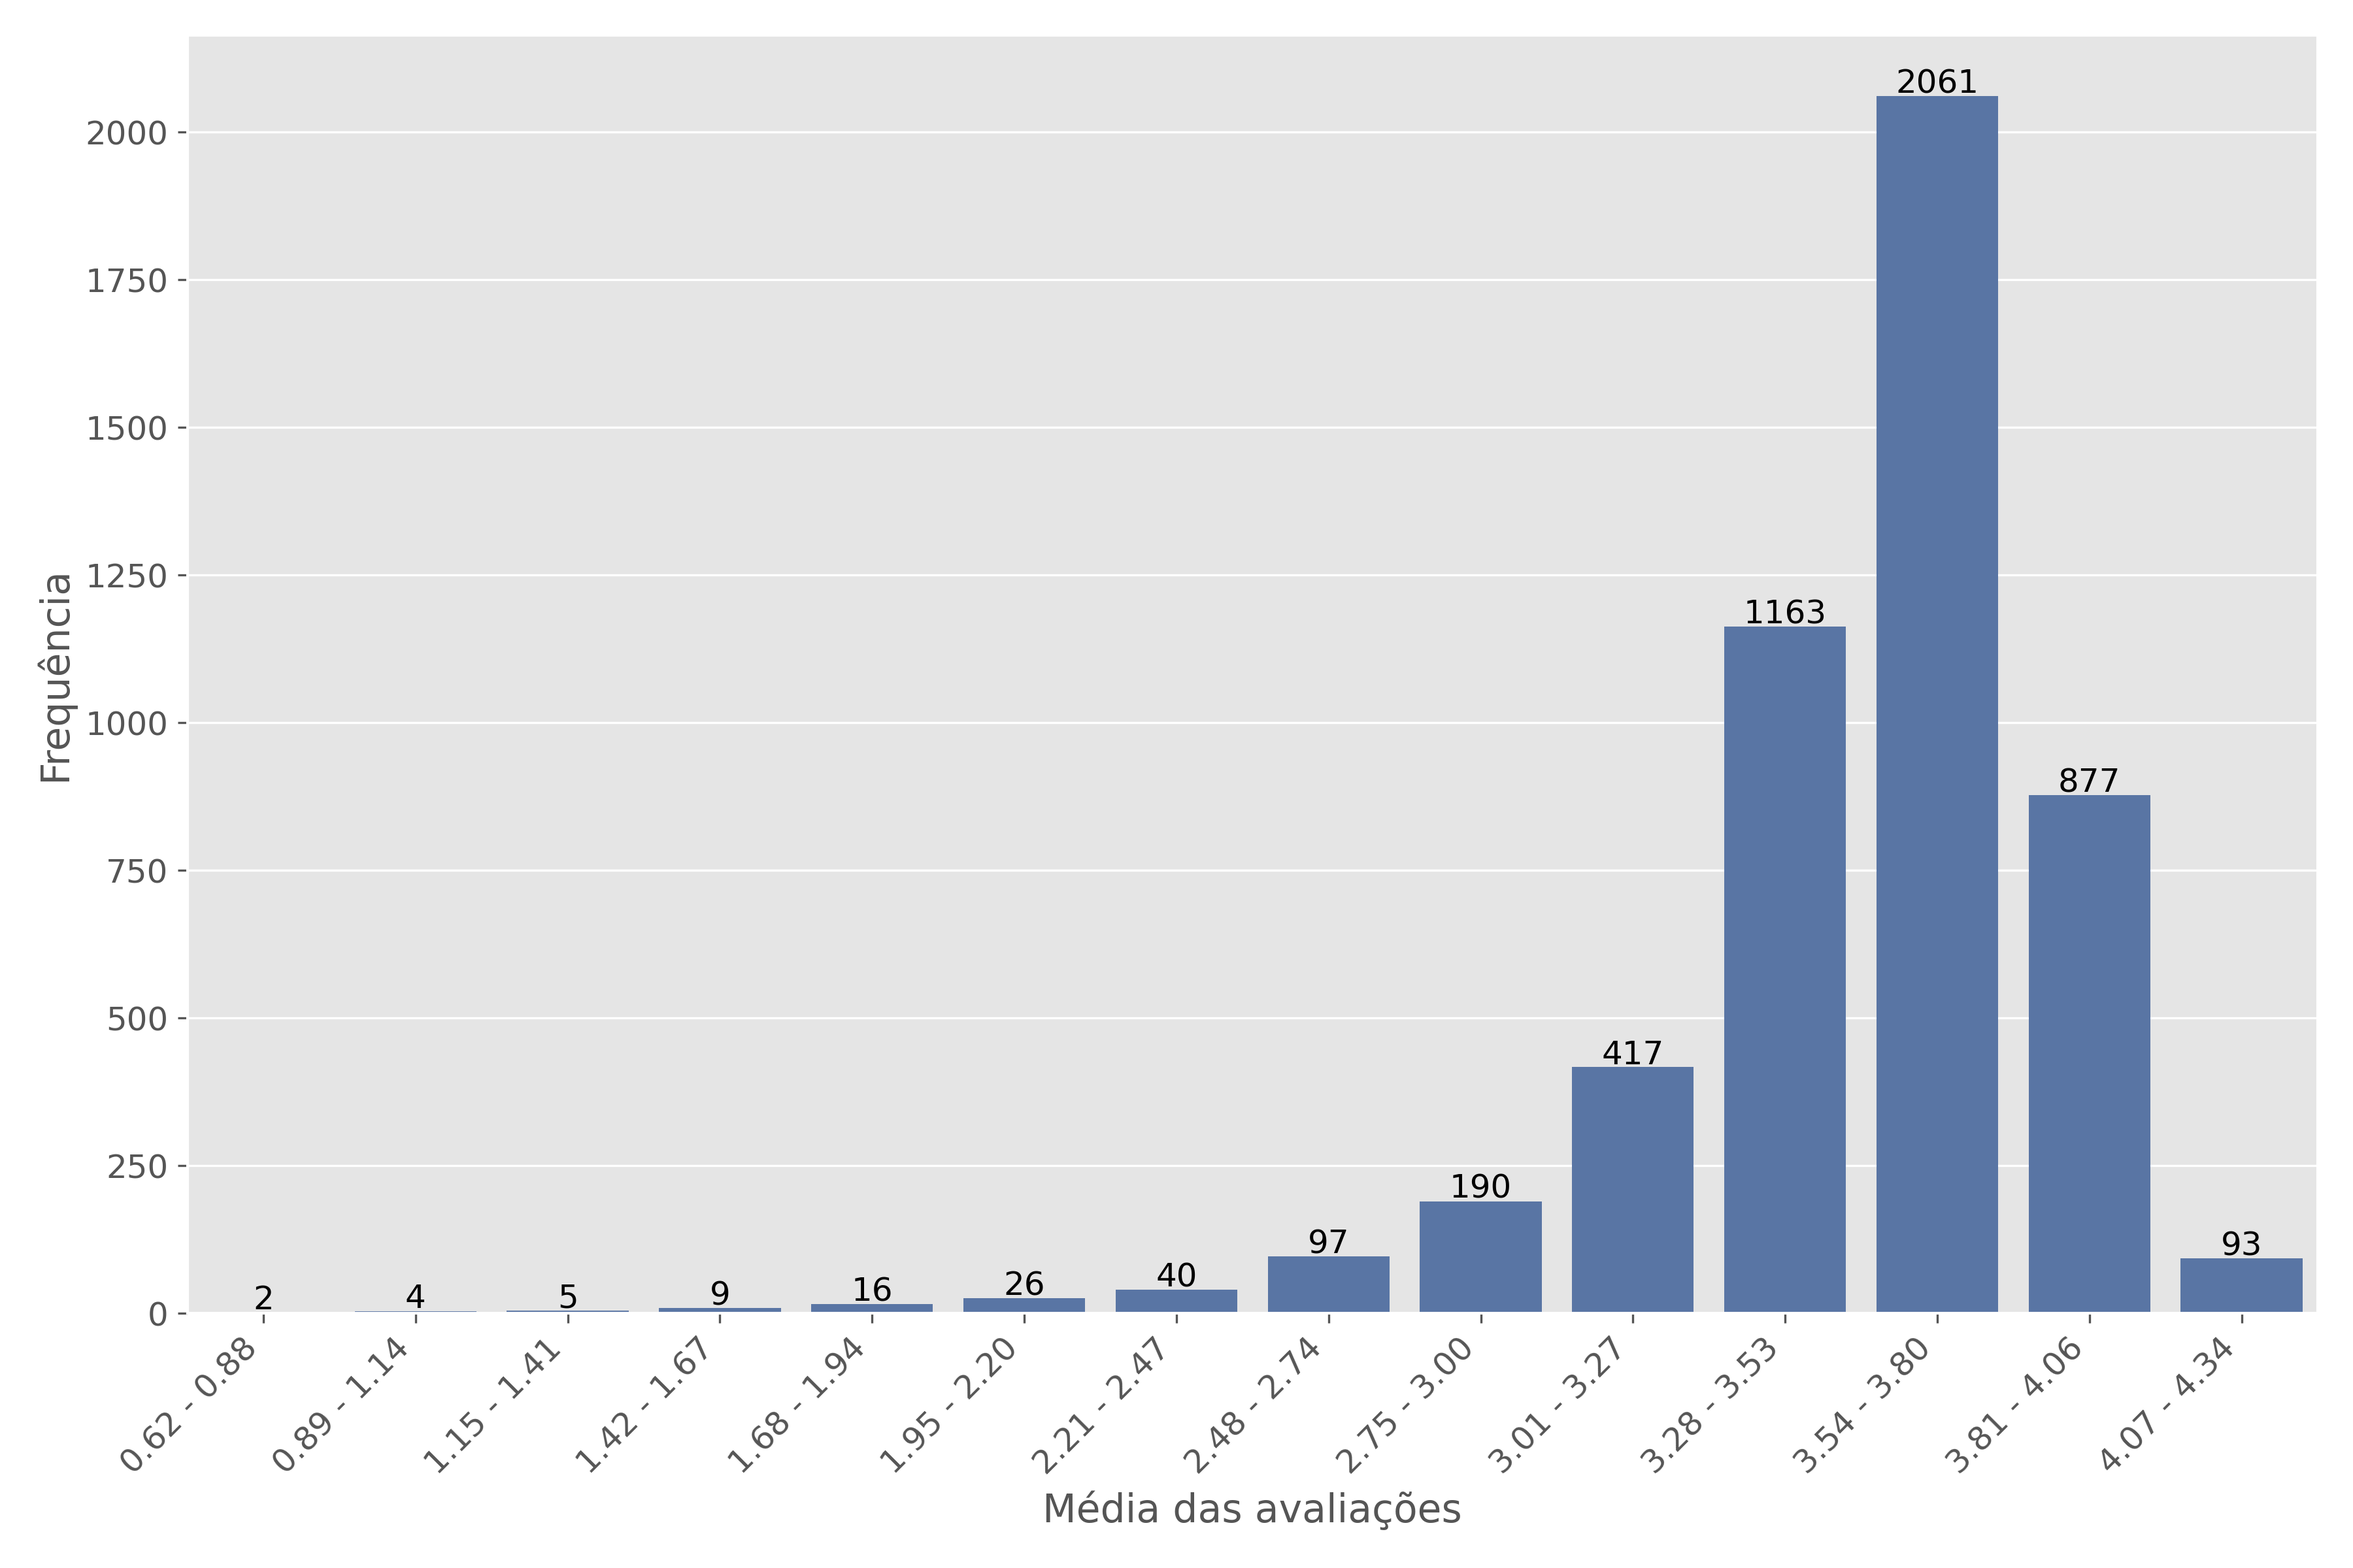
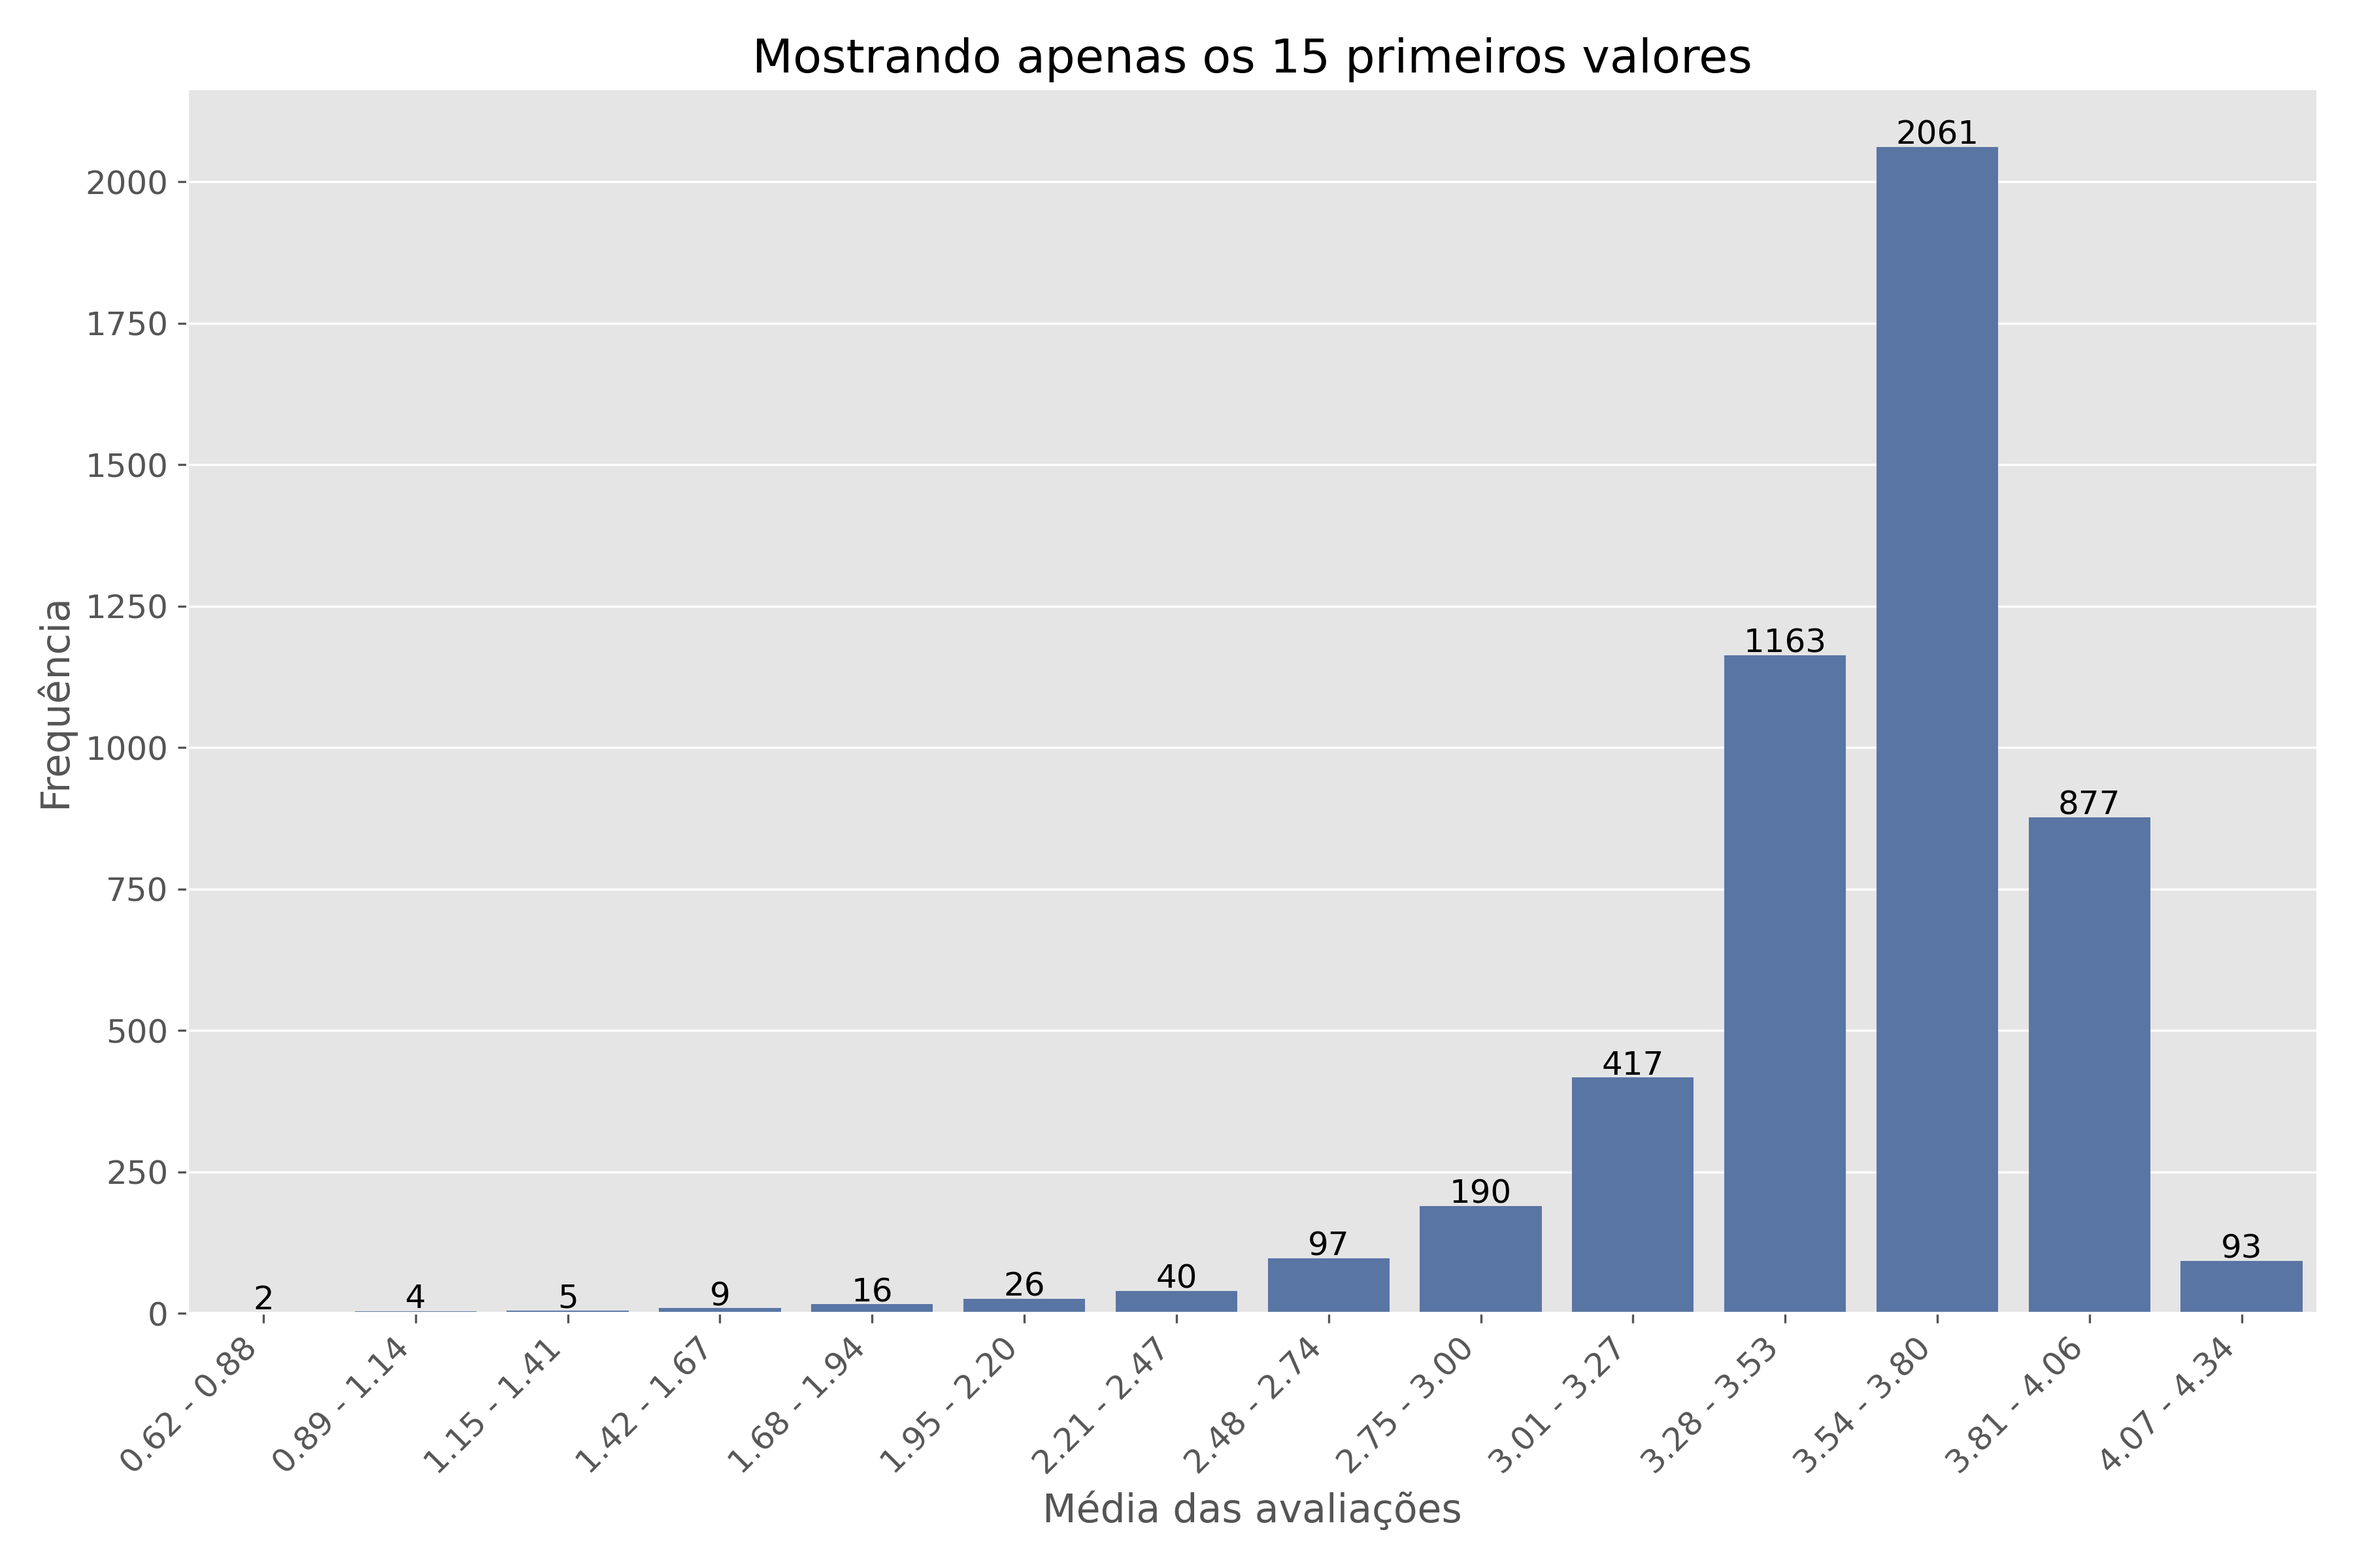
pra continuar em casa

diff --git a/atividade_1/src/variables_graphs.py b/atividade_1/src/variables_graphs.py
@@ -31,7 +31,6 @@ def plot_qualitative_graph(filename: str):
     
     plt.figure(figsize=(12, 8))
     
-    df["Frequência"].max()
     # Gráfico de barras
     ax = sns.barplot(x=filename, y="Frequência", data=df)
     plt.title("Mostrando apenas as 15 maiores frequências")
@@ -40,8 +39,9 @@ def plot_qualitative_graph(filename: str):
     plt.tight_layout()
     
     # Adiciona os valores sobre as barras
+    max_value = df["Frequência"].max()
     for i, v in enumerate(df["Frequência"]):
-        ax.text(i, v + 2, str(v), ha='center')
+        ax.text(i, v + 0.01 * max_value, str(v), ha='center')
     
     # Salva o gráfico
     plt.savefig(f"outputs/{filename}_grafico.png", dpi=300)
